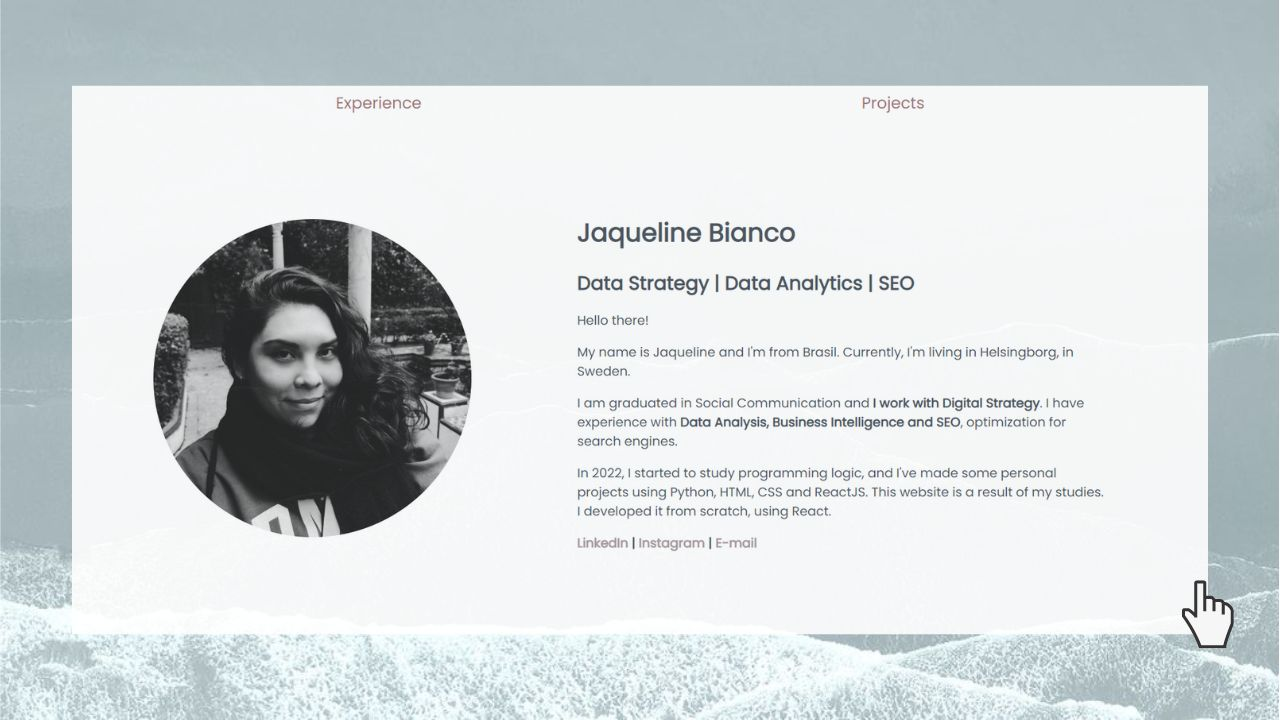
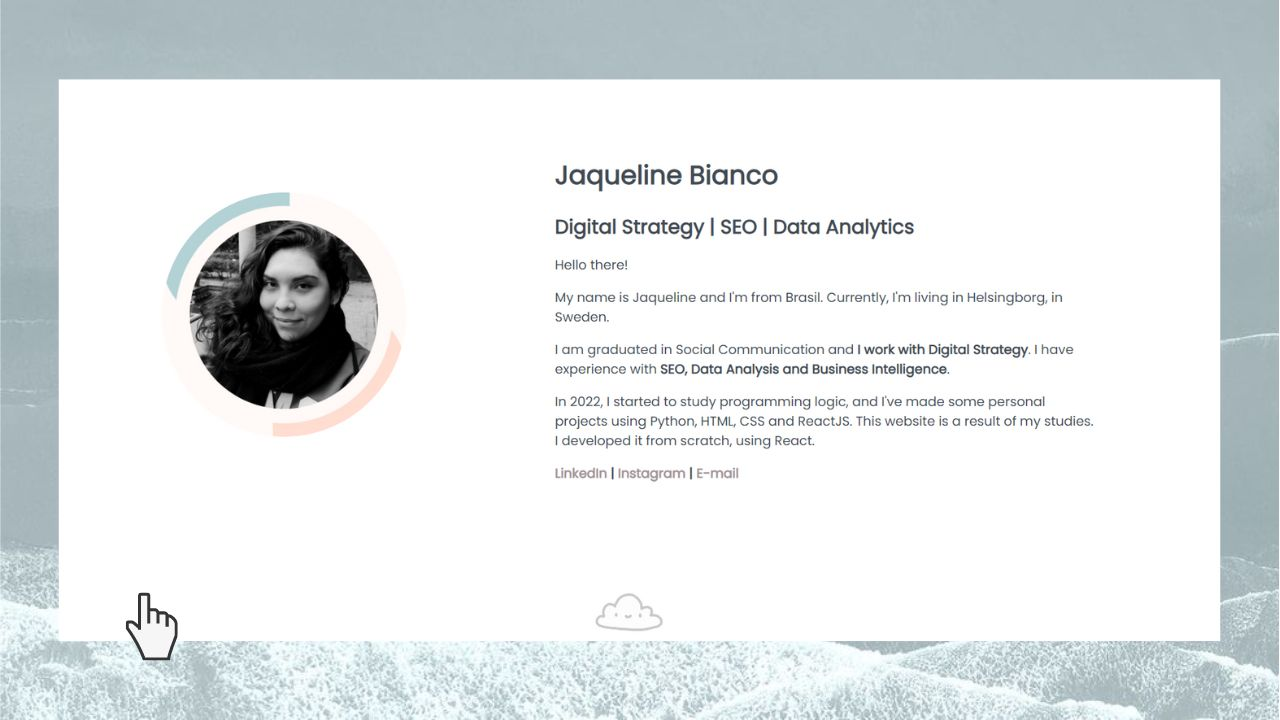
Correct thumbnail

diff --git a/src/components/Hero.js b/src/components/Hero.js
@@ -1,6 +1,6 @@
 import React from 'react';
 import './Hero.css';
-import MyAvatar from './assets/me.jpeg';
+import MyAvatar from './assets/me.jpg';
 
 
 
@@ -14,12 +14,12 @@ function Hero() {
 
                 <div className='hero-text'>
                     <h1>Jaqueline Bianco</h1>
-                    <h2>Data Strategy | Data Analytics | SEO</h2>
+                    <h2>Digital Strategy | SEO | Data Analytics</h2>
                     <p>Hello there! </p>
 
                     <p>My name is Jaqueline and I'm from Brasil. Currently, I'm living in Helsingborg, in Sweden.</p>
 
-                    <p>I am graduated in Social Communication and <strong>I work with Digital Strategy</strong>. I have experience with <strong>Data Analysis, Business Intelligence and SEO</strong>, optimization for search engines.</p>
+                    <p>I am graduated in Social Communication and <strong>I work with Digital Strategy</strong>. I have experience with <strong>SEO, Data Analysis and Business Intelligence</strong>.</p>
 
                     <p>In 2022, I started to study programming logic, and I've made some personal projects using Python, HTML, CSS and ReactJS. This website is a result of my studies. I developed it from scratch, using React. </p>
 

diff --git a/src/components/Experience.js b/src/components/Experience.js
@@ -18,7 +18,7 @@ function Experience() {
                     <ExperienceCard
                         title="Busines Intelligence Analyst"
                         subtitle="Mirum Agency"
-                        description="Participated of e-commerce projects, mainly in the setup stage of new accounts. My team was responsible for attending a brazilian footwear e-commerce and our duty was to help them make data-based decisions."
+                        description="Worked on e-commerce projects, mainly in the setup stage of new accounts. My team was responsible for attending a brazilian footwear e-commerce and our duty was to help them make data-based decisions."
                     />
                 </div>
 

diff --git a/src/components/Hero.css b/src/components/Hero.css
@@ -13,7 +13,7 @@
 }
 
 .hero-image-me {
-    width: 400px;
+    width: 300px;
     border-radius: 50%;
 }
 
